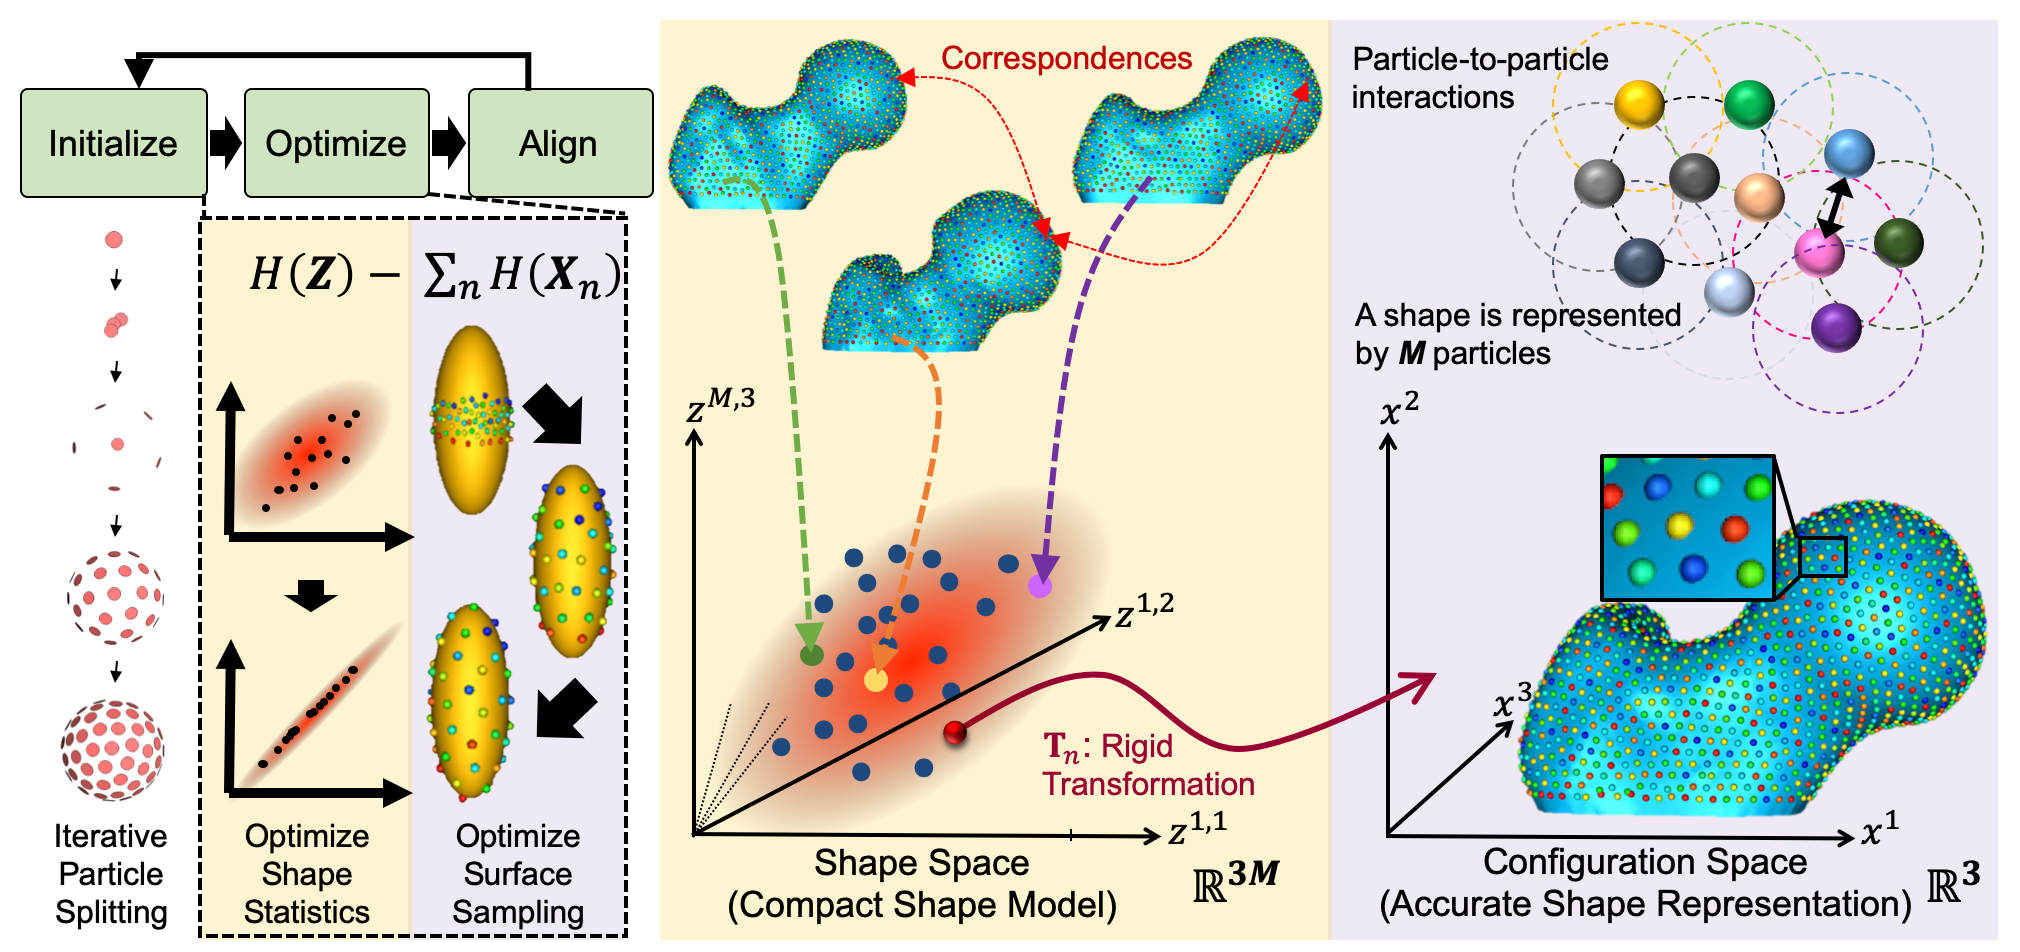
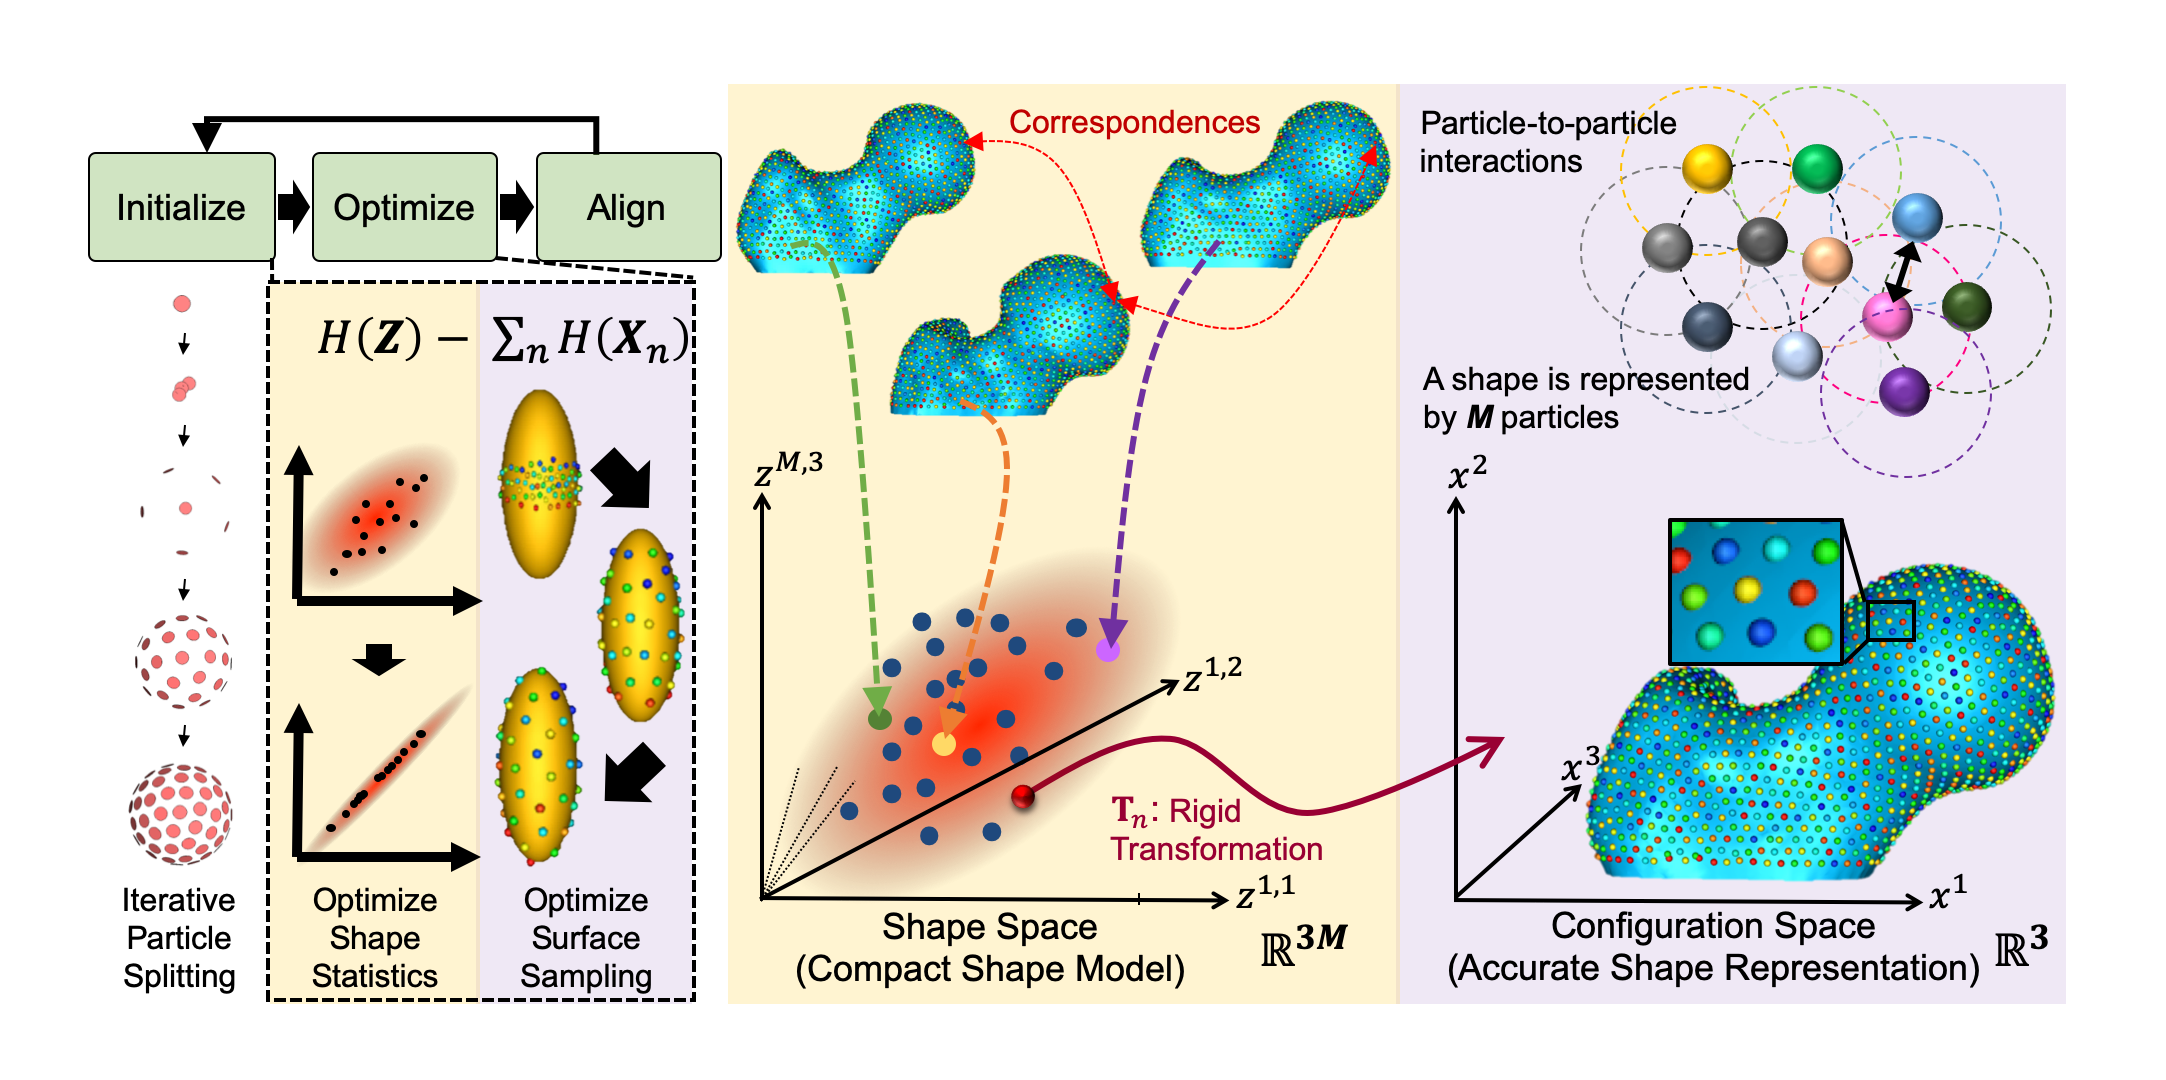
about image with margins

diff --git a/README.md b/README.md
@@ -12,10 +12,7 @@ ShapeWorks
   ShapeWorks is a free, open-source suite of software tools that uses a flexible method for automated construction of compact statistical landmark-based shape models of ensembles of anatomical shapes that does not rely on any specific surface parameterization. The method requires very little preprocessing or parameter tuning, and is applicable to a wide range of shape analysis problems, including nonmanifold surfaces and objects of arbitrary topology. ShapeWorks includes tools for preprocessing data, computing landmark-based shape models, and visualizing the results.
 </p>
 
-
-<br>
 <img src="Images/about-shapeworks.png" width="800px" align="right" hspace="20">
-<br>
 
 The underlying scientific premise of ShapeWorks, particle-based shape modeling, is a groupwise approach to placing landmarks (i.e., correspondences) that considers the variability in the entire cohort of images. ShapeWorks uses a set of interacting particle systems, one for each shape, in an ensemble, to produce optimal sets of surface correspondences. Particles interact with one another via mutually repelling forces to optimally cover, and therefore describe, the surface geometry. Particles are positioned on surfaces automatically by optimizing the information content of the model via an entropy optimization scheme. In particular, ShapeWorks explicitly models the inherent trade-off between the statistical simplicity of the model (i.e., compactness) in the shape space and the accuracy of the shape representations (i.e., good surface samplings) in the configuration space. ShapeWorks has been effective in a range of applications, including psychology, biological phenotyping, cardiology, and orthopedics. [See relevant papers](#relevant-papers). 
 
